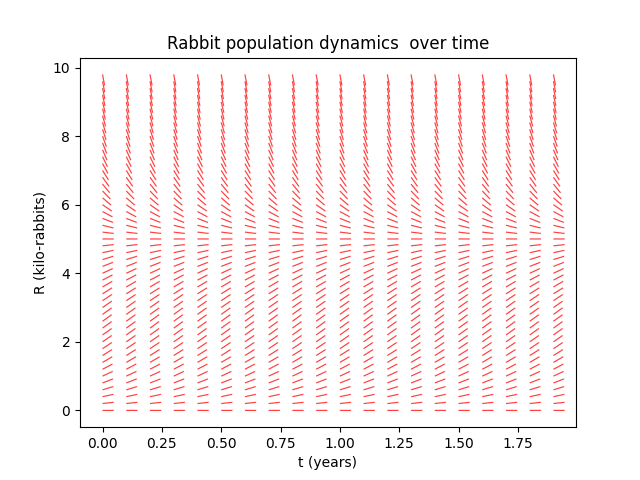
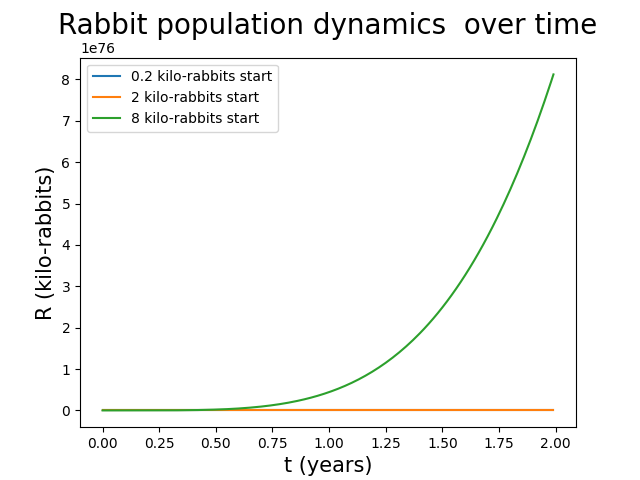
Final Commit, everything works

diff --git a/math199_assignment1/dwdr_plots.py b/math199_assignment1/dwdr_plots.py
@@ -1,0 +1,50 @@
+import numpy as np
+import matplotlib.pyplot as plt
+from scipy.integrate import solve_ivp
+
+k = 4
+L = 5
+xstart = 0
+xstop = 2.5
+ystart = 0
+ystop = 1.5
+xstep = 0.06
+ystep = 0.06
+linelength = 0.07
+tstart = 0
+tstop = 20
+
+
+def dwdr(t,y, k, L):
+    # t is declared but never used to comply with scipy solve_ivp
+    w = y[0]
+    r = y[1]
+
+
+    dwdt = r * w- w
+    drdt = k*r * (1-r/  L)-L*r*w
+
+    return [dwdt,drdt]
+
+
+
+
+def slopefield( r, w,k, L,  linelenght):
+    (r,w) = np.meshgrid(r,w)
+    u = r * w- w # change in x
+    v = k*r * (1-r/L)-L*r*w # change in y
+    R = np.power(np.add(np.power(u,2), np.power(v,2)),0.5) # for normalizing the vectors
+    plt.quiver(r,w, v/R, u/R, units = 'xy', scale=(1/linelenght), angles = 'xy' , color = '#1e66f5')
+
+
+r = np.arange(start=xstart, stop= xstop, step= xstep)
+w = np.arange(start = ystart, stop = ystop, step=ystep)
+
+sol1 = solve_ivp(dwdr, [tstart,tstop],[0.3,1], args=(k,L), dense_output=True, max_step= 0.01,first_step = 0.01)
+slopefield(r, w, k, L,linelength)
+plt.xlabel("Rabbits (kilo-rabbits)", fontsize = 15)
+plt.ylabel("Wolves (100s of wolves)", fontsize = 15)
+plt.title("Wolves against rabbits over time", fontsize = 20)
+plt.plot(sol1.y[1],sol1.y[0],'-',lw=2, color = '#fe640b', label = ("Starts at (1 kilo-rabbit, 30 wolves) converges to (1 kilo-rabbit, 64 wolves) "))
+plt.legend()
+plt.show()

diff --git a/math199_assignment1/drdt.py b/math199_assignment1/drdt.py
@@ -2,8 +2,8 @@ import numpy as np
 import matplotlib.pyplot as plt
 from scipy.integrate import solve_ivp
 
-k = 4
-L = 5
+k = 3
+L = -2
 xstart = 0
 xstop = 2
 ystart = 0
@@ -34,15 +34,16 @@ x_graph = np.arange(start = xstart, stop=xstop, step = xstep/10)
 y = np.arange(start = ystart, stop = ystop, step=ystep)
 
 
-#sol1 = solve_ivp(dydx, [xstart,xstop],[0.2,2,8], args=(k,L), dense_output=True, max_step= 0.1,first_step = 0.1)
-#z = sol1.sol(x_graph)
-#plt.plot(x_graph, z.T)
+sol1 = solve_ivp(dydx, [xstart,xstop],[0.2,2,8], args=(k,L), dense_output=True, max_step= 0.1,first_step = 0.1)
+z = sol1.sol(x_graph)
+plt.plot(x_graph, z.T, label=("0.2 kilo-rabbits start","2 kilo-rabbits start","8 kilo-rabbits start"))
+plt.legend()
 
 slopefield(x_slopefield, y, k,L,linelength)
 plt.plot()
 
-plt.title("Rabbit population dynamics  over time")
-plt.xlabel('t (years)')
-plt.ylabel('R (kilo-rabbits)')
+plt.title("Rabbit population dynamics  over time", fontsize = 20)
+plt.xlabel('t (years)', fontsize = 15)
+plt.ylabel('R (kilo-rabbits)', fontsize = 15)
 plt.savefig('foo.png')
 plt.show()

diff --git a/math199_assignment1/dwdranddrdt.py b/math199_assignment1/dwdranddrdt.py
@@ -3,7 +3,7 @@ import matplotlib.pyplot as plt
 from scipy.integrate import solve_ivp
 
 k = 4
-L = 10
+L = 5
 xstart = 0
 xstop = 20
 ystart = -3
@@ -16,11 +16,8 @@ def dydx(t,y, k, L):
     # t is declared but never used to comply with scipy solve_ivp
     w = y[0]
     r = y[1]
-
-
     dwdt = r * w- w
-    drdt = k*r * (1-r/L)-L/2*r*w
-
+    drdt = k*r * (1-r/L)-L*r*w
 
     return [dwdt,drdt]
 
@@ -34,7 +31,7 @@ plt.plot(x, z.T, label=('100s of wolves', 'kilo-rabbits'))
 plt.legend()
 
 
-plt.title("Population of wolves W (100s of wolves) and Rabbits R (kilo-rabbits)")
-plt.xlabel('t (years)')
-plt.ylabel('amount of animals')
+plt.title("Population of Wolves W (100s of wolves) and Rabbits R (kilo-rabbits) over time", fontsize =20)
+plt.xlabel('t (years)', fontsize = 15)
+plt.ylabel('Population', fontsize = 15)
 plt.show()
